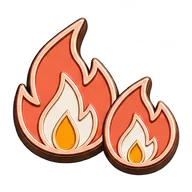
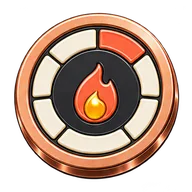
spike(badges): 기존 27종 전부 v2 핀 연결 (형태=분류·모티프=의미·등급=마감)

diff --git a/lib/constants/badges.ts b/lib/constants/badges.ts
@@ -58,6 +58,7 @@ export const BADGES: Badge[] = [
   // ═══════════════════════════════════════
   {
     id: "streak_180",
+    image: "/badges/v1/streak_180",
     name: "Half-Year Hero",
     description: "180 days consecutive usage",
     praise: "Six months of dedication! You're in the hall of fame.",
@@ -68,6 +69,7 @@ export const BADGES: Badge[] = [
   },
   {
     id: "streak_90",
+    image: "/badges/v1/streak_90",
     name: "Quarter Master",
     description: "90 days consecutive usage",
     praise: "Three months of commitment! You're building something great.",
@@ -78,6 +80,7 @@ export const BADGES: Badge[] = [
   },
   {
     id: "streak_60",
+    image: "/badges/v1/streak_60",
     name: "Two-Month Titan",
     description: "60 days consecutive usage",
     praise: "Two months strong! You're unstoppable.",
@@ -88,6 +91,7 @@ export const BADGES: Badge[] = [
   },
   {
     id: "streak_30",
+    image: "/badges/v1/streak_30",
     name: "Monthly Warrior",
     description: "30 days consecutive usage",
     praise: "One month streak! You're on the right track.",
@@ -146,6 +150,7 @@ export const BADGES: Badge[] = [
   },
   {
     id: "whale",
+    image: "/badges/v1/whale",
     name: "Whale",
     description: "Spent $10,000+ total",
     praise: "A true whale! Making waves in the Claude ocean.",
@@ -167,6 +172,7 @@ export const BADGES: Badge[] = [
   },
   {
     id: "big_spender",
+    image: "/badges/v1/big_spender",
     name: "Big Spender",
     description: "Spent $5,000+ total",
     praise: "Investing in AI excellence! Your commitment is remarkable.",
@@ -192,6 +198,7 @@ export const BADGES: Badge[] = [
   // ═══════════════════════════════════════
   {
     id: "global_first",
+    image: "/badges/v1/global_first",
     name: "Global Champion",
     description: "Reached #1 Worldwide",
     praise: "The absolute champion! You stand at the top of the world.",
@@ -202,6 +209,7 @@ export const BADGES: Badge[] = [
   },
   {
     id: "top_3",
+    image: "/badges/v1/top_3",
     name: "Podium",
     description: "Reached Global Top 3",
     praise: "On the podium! One of the top 3 in the world.",
@@ -223,6 +231,7 @@ export const BADGES: Badge[] = [
   },
   {
     id: "country_first",
+    image: "/badges/v1/country_first",
     name: "National Champion",
     description: "Reached #1 in your country",
     praise: "National champion! You've conquered your homeland.",
@@ -244,6 +253,7 @@ export const BADGES: Badge[] = [
   },
   {
     id: "rising_star",
+    image: "/badges/v1/rising_star",
     name: "Rising Star",
     description: "Gained 100+ ranks in a week",
     praise: "Shooting star! Your rise is inspiring everyone.",
@@ -269,6 +279,7 @@ export const BADGES: Badge[] = [
   },
   {
     id: "sonnet_master",
+    image: "/badges/v1/sonnet_master",
     name: "Sonnet Master",
     description: "70%+ of tokens on Sonnet models",
     praise: "Balance of power and efficiency! Sonnet suits you perfectly.",
@@ -279,6 +290,7 @@ export const BADGES: Badge[] = [
   },
   {
     id: "model_explorer",
+    image: "/badges/v1/model_explorer",
     name: "Model Explorer",
     description: "Used all available Claude models (100K+ each)",
     praise: "Versatile explorer! You've mastered the entire Claude family.",
@@ -294,6 +306,7 @@ export const BADGES: Badge[] = [
   },
   {
     id: "haiku_ninja",
+    image: "/badges/v1/haiku_ninja",
     name: "Haiku Ninja",
     description: "70%+ of tokens on Haiku models",
     praise: "Speed demon! Quick and efficient like a true ninja.",
@@ -308,6 +321,7 @@ export const BADGES: Badge[] = [
   // ═══════════════════════════════════════
   {
     id: "social_legend",
+    image: "/badges/v1/social_legend",
     name: "Social Legend",
     description: "Referred 50+ friends who joined",
     praise: "Legendary influencer! You built an army.",
@@ -318,6 +332,7 @@ export const BADGES: Badge[] = [
   },
   {
     id: "social_star",
+    image: "/badges/v1/social_star",
     name: "Social Star",
     description: "Referred 30+ friends who joined",
     praise: "Star power! Your network is impressive.",
@@ -328,6 +343,7 @@ export const BADGES: Badge[] = [
   },
   {
     id: "influencer",
+    image: "/badges/v1/influencer",
     name: "Influencer",
     description: "Referred 20+ friends who joined",
     praise: "Community builder! You're a true ambassador.",
@@ -338,6 +354,7 @@ export const BADGES: Badge[] = [
   },
   {
     id: "networker",
+    image: "/badges/v1/networker",
     name: "Networker",
     description: "Referred 10+ friends who joined",
     praise: "Growing your network! Keep spreading the word.",
@@ -348,6 +365,7 @@ export const BADGES: Badge[] = [
   },
   {
     id: "recruiter",
+    image: "/badges/v1/recruiter",
     name: "Recruiter",
     description: "Referred 5+ friends who joined",
     praise: "First recruits! Thanks for sharing.",
